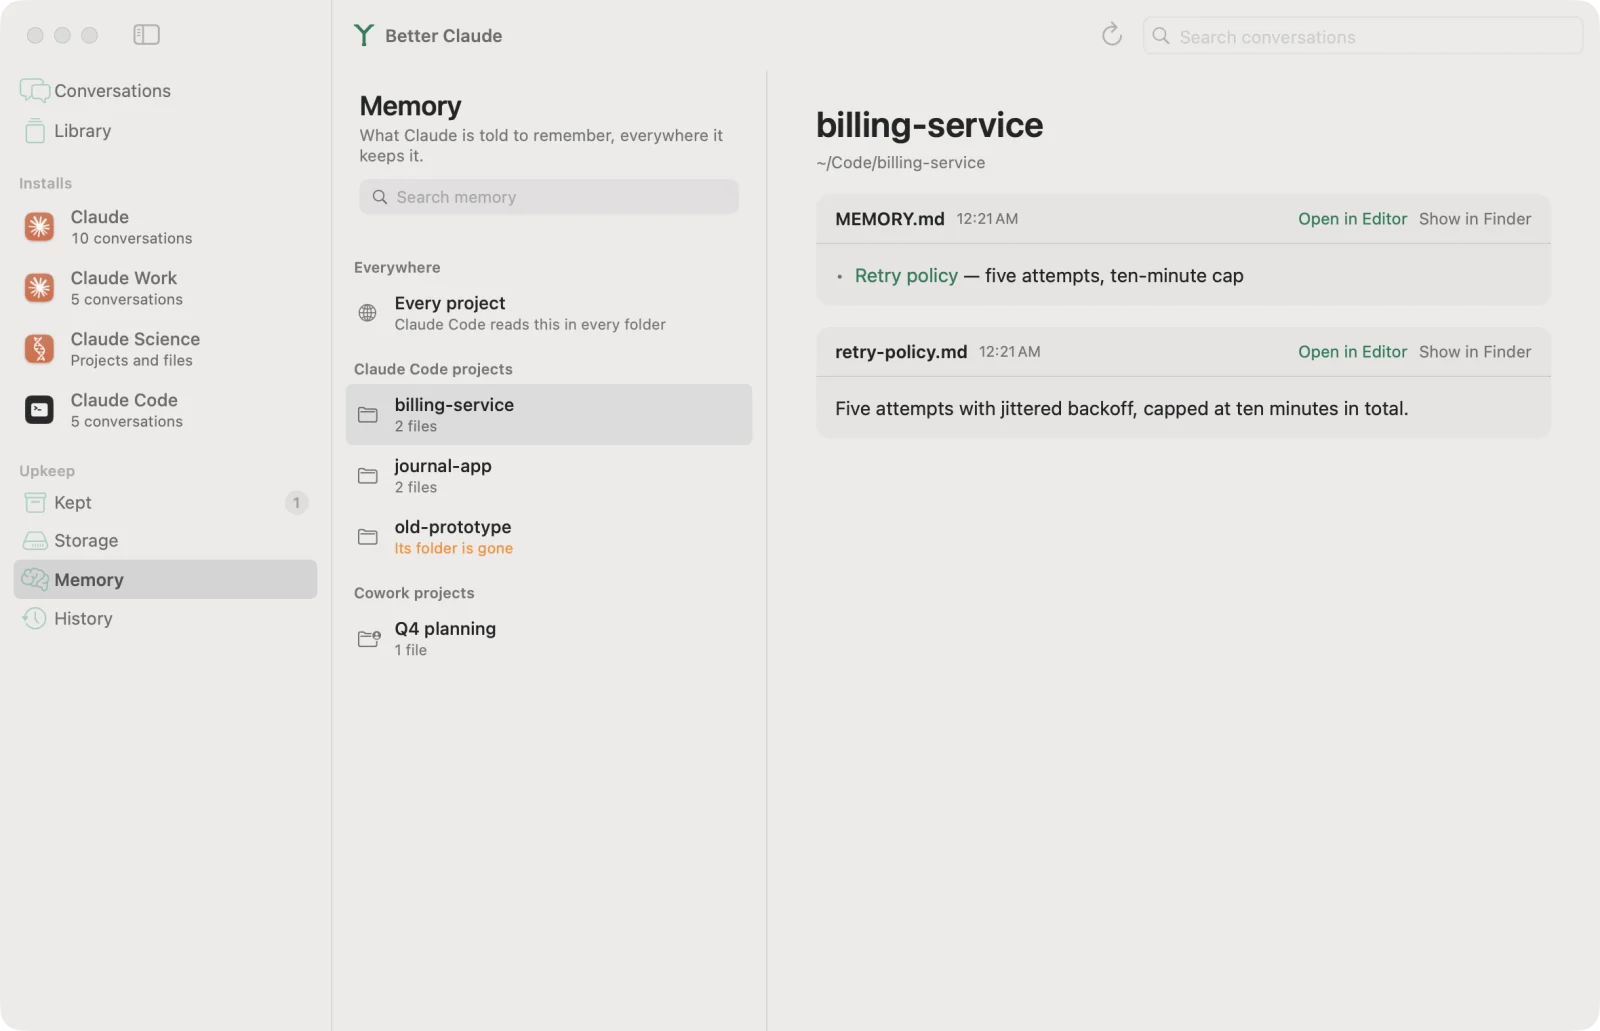
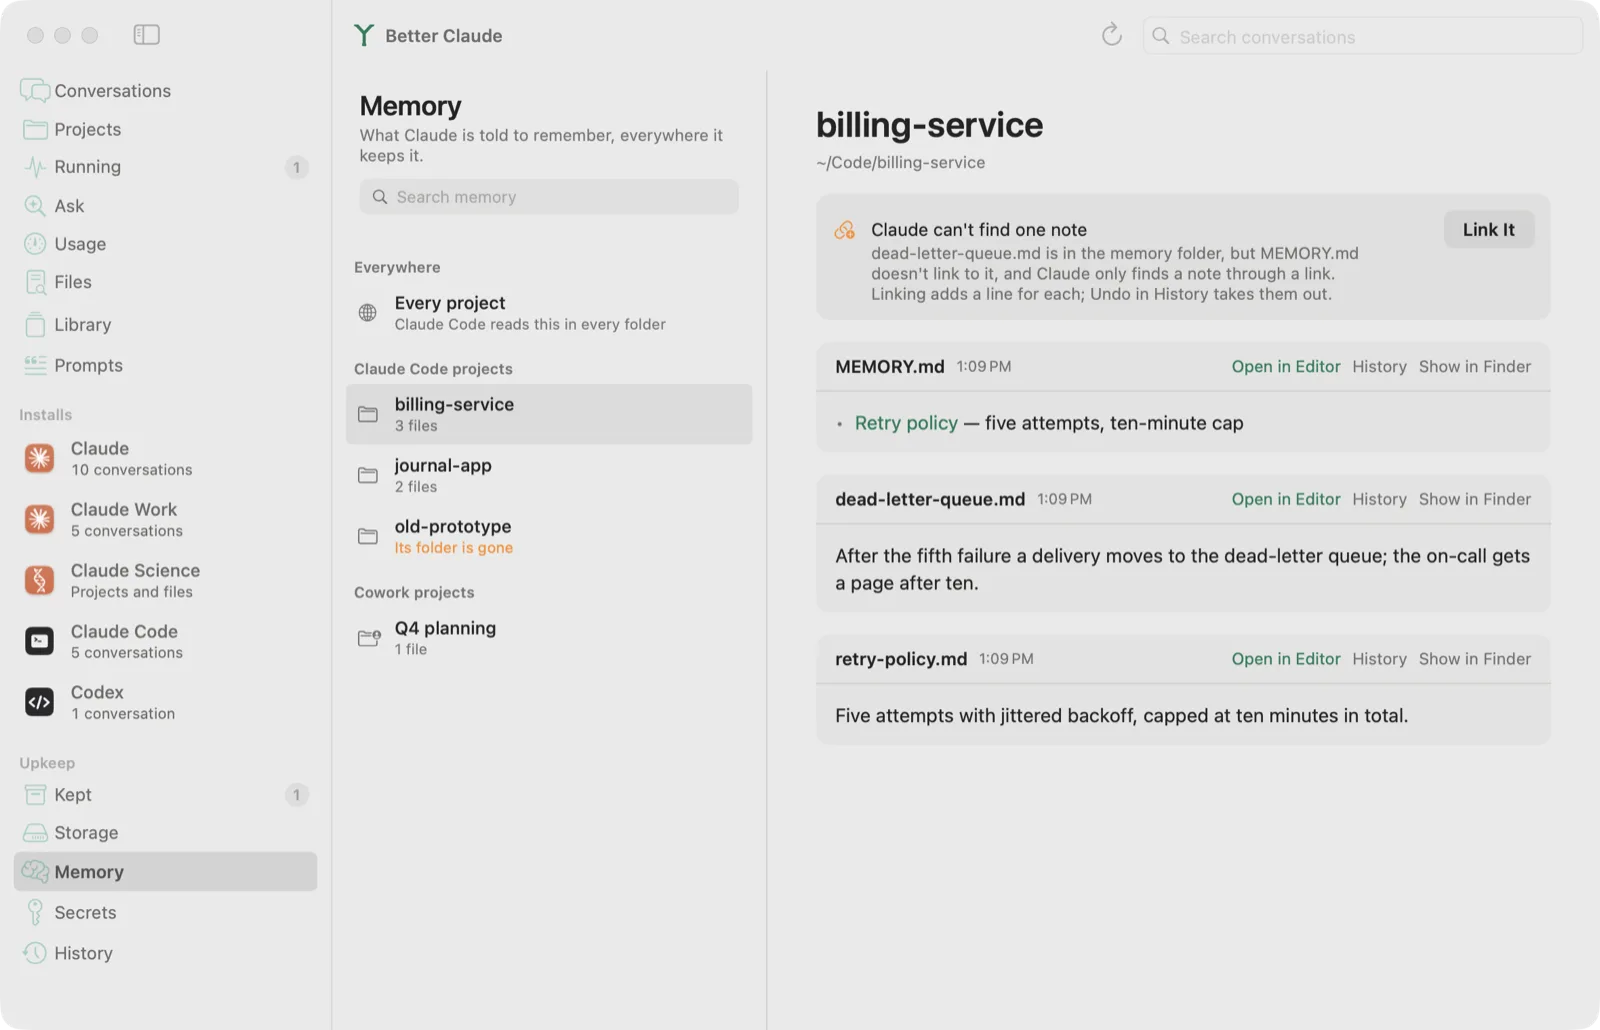
Better Claude 0.25.0: the memory Claude never sees

diff --git a/Sources/CoworkKit/Memory/MemoryHealth.swift b/Sources/CoworkKit/Memory/MemoryHealth.swift
@@ -1,0 +1,81 @@
+import Foundation
+
+/// What Claude Code's automatic memory for a project doesn't actually give Claude. Only the
+/// first 200 lines, or 25KB, of `MEMORY.md` are read at the start of a session, and a note is
+/// only found through a link from it.
+public struct MemoryHealth: Sendable, Equatable {
+    public static let lineLimit = 200
+    public static let byteLimit = 25 * 1_024
+
+    public let index: URL
+    /// Lines of `MEMORY.md` past the cut, which never load.
+    public let linesPastCut: Int
+    /// Notes in the folder that `MEMORY.md` doesn't link to.
+    public let unlinked: [URL]
+    /// Links in `MEMORY.md` to notes that aren't there.
+    public let missing: [String]
+
+    public var isHealthy: Bool { linesPastCut == 0 && unlinked.isEmpty && missing.isEmpty }
+
+    /// The health of a memory folder, or nil when it has no `MEMORY.md`.
+    public static func check(folder: URL) -> MemoryHealth? {
+        let index = folder.appendingPathComponent("MEMORY.md")
+        guard let data = try? Data(contentsOf: index), let text = String(data: data, encoding: .utf8) else { return nil }
+        var lines = text.components(separatedBy: "\n")
+        if lines.last == "" { lines.removeLast() }
+        // The cut is whichever comes first, 200 lines or 25KB.
+        var kept = 0, bytes = 0
+        for line in lines {
+            bytes += line.utf8.count + 1
+            guard kept < lineLimit, bytes <= byteLimit else { break }
+            kept += 1
+        }
+        let links = Set(linkTargets(in: text))
+        let notes = ((try? FileManager.default.contentsOfDirectory(atPath: folder.path)) ?? [])
+            .filter { $0.hasSuffix(".md") && $0 != "MEMORY.md" }.sorted()
+        return MemoryHealth(index: index, linesPastCut: lines.count - kept,
+                            unlinked: notes.filter { !links.contains($0) }.map { folder.appendingPathComponent($0) },
+                            missing: links.filter { !notes.contains($0) }.sorted())
+    }
+
+    static func linkTargets(in text: String) -> [String] {
+        let expression = try! NSRegularExpression(pattern: #"\]\(([^)#\s]+\.md)\)"#)
+        return expression.matches(in: text, range: NSRange(text.startIndex..., in: text)).compactMap {
+            Range($0.range(at: 1), in: text).map { String(text[$0]) }
+        }
+    }
+
+    /// A note's description, from its front matter, for its line in the index.
+    static func summary(of note: URL) -> String {
+        let text = (try? String(contentsOf: note, encoding: .utf8)) ?? ""
+        if let line = text.components(separatedBy: "\n").first(where: { $0.hasPrefix("description:") }) {
+            return line.dropFirst("description:".count).trimmingCharacters(in: CharacterSet.whitespaces.union(CharacterSet(charactersIn: "\"'")))
+        }
+        return ""
+    }
+
+    /// Adds a line for each note to `MEMORY.md`, near the top so it's inside the cut, with a
+    /// receipt: Undo in History puts the index back as it was.
+    @discardableResult
+    public func link(_ notes: [URL], paths: HostPaths = .current) throws -> ImportReceipt {
+        var receipt = ImportReceipt(direction: .fileRestore, destination: index.path)
+        receipt.title = "Linked \(notes.count) note\(notes.count == 1 ? "" : "s") from MEMORY.md"
+        receipt.itemCount = notes.count
+        let saved = try FileProvenance.saveCurrent(index, paths: paths)
+        receipt.modified.append(.init(path: index.path, backupPath: saved.path, sha256Before: try FileDigest.hex(contentsOf: index)))
+        try Undo.save(receipt)
+        var lines = try String(contentsOf: index, encoding: .utf8).components(separatedBy: "\n")
+        let entries = notes.map { note -> String in
+            let name = note.deletingPathExtension().lastPathComponent.replacingOccurrences(of: "-", with: " ")
+            let summary = Self.summary(of: note)
+            return "- [\(name.prefix(1).uppercased() + name.dropFirst())](\(note.lastPathComponent))" + (summary.isEmpty ? "" : " — \(summary)")
+        }
+        // After the last existing link, or at the top.
+        let at = (lines.lastIndex { $0.contains("](") && $0.contains(".md)") }).map { $0 + 1 } ?? 0
+        lines.insert(contentsOf: entries, at: min(at, lines.count))
+        try AtomicWrite.write(Data(lines.joined(separator: "\n").utf8), to: index)
+        receipt.completed = true
+        try Undo.save(receipt)
+        return receipt
+    }
+}

diff --git a/Sources/BetterClaude/Memory/MemoryPage.swift b/Sources/BetterClaude/Memory/MemoryPage.swift
@@ -158,6 +158,7 @@ private struct MemoryDetail: View {
                                           }
                                       }))
                     }
+                    MemoryHealthNotices(group: group)
                     ForEach(group.files) { file in
                         MemoryFileView(file: file)
                     }
@@ -234,5 +235,47 @@ private struct MemoryFileView: View {
               let end = text.range(of: "\n---\n", range: text.index(text.startIndex, offsetBy: 4)..<text.endIndex)
         else { return text }
         return String(text[end.upperBound...])
+    }
+}
+
+/// What the memory folder has that Claude doesn't get: lines past the cut, notes nothing
+/// links to, links to notes that are gone.
+private struct MemoryHealthNotices: View {
+    @Environment(AppServices.self) private var services
+    let group: MemoryGroup
+    @State private var health: MemoryHealth?
+
+    var body: some View {
+        VStack(alignment: .leading, spacing: Theme.Space.m) {
+            if let health {
+                if health.linesPastCut > 0 {
+                    InstallNotice(symbol: "scissors",
+                                  title: "\(health.linesPastCut) line\(health.linesPastCut == 1 ? "" : "s") of MEMORY.md never load",
+                                  detail: "Claude reads only the first \(MemoryHealth.lineLimit) lines, or 25KB, of MEMORY.md when a session starts. Move older entries into notes of their own and keep the index short.")
+                }
+                if !health.unlinked.isEmpty {
+                    InstallNotice(symbol: "link.badge.plus",
+                                  title: "Claude can't find \(health.unlinked.count == 1 ? "one note" : "\(health.unlinked.count) notes")",
+                                  detail: "\(health.unlinked.map(\.lastPathComponent).joined(separator: ", ")) \(health.unlinked.count == 1 ? "is" : "are") in the memory folder, but MEMORY.md doesn't link to \(health.unlinked.count == 1 ? "it" : "them"), and Claude only finds a note through a link. Linking adds a line for each; Undo in History takes them out.",
+                                  action: (health.unlinked.count == 1 ? "Link It" : "Link Them", { link(health) }))
+                }
+                if !health.missing.isEmpty {
+                    InstallNotice(symbol: "link.badge.exclamationmark",
+                                  title: "MEMORY.md links to \(health.missing.count == 1 ? "a note" : "\(health.missing.count) notes") that \(health.missing.count == 1 ? "is" : "are") gone",
+                                  detail: health.missing.joined(separator: ", "))
+                }
+            }
+        }
+        .task(id: group.id) { health = folder.flatMap(MemoryHealth.check) }
+    }
+
+    private var folder: URL? {
+        group.files.first { $0.name == "MEMORY.md" }?.url.deletingLastPathComponent()
+    }
+
+    private func link(_ health: MemoryHealth) {
+        guard (try? health.link(health.unlinked)) != nil else { return }
+        self.health = folder.flatMap(MemoryHealth.check)
+        services.memory.load(services.snapshot)
     }
 }

diff --git a/Tests/CoworkKitTests/MemoryHealthTests.swift b/Tests/CoworkKitTests/MemoryHealthTests.swift
@@ -1,0 +1,38 @@
+import CoworkFixtures
+import Foundation
+import Testing
+
+@testable import CoworkKit
+
+@Suite("Memory health")
+struct MemoryHealthTests {
+    @Test("Lines past the cut, notes nothing links to, and links to notes that are gone; linking is undoable")
+    func health() throws {
+        try FixtureHomeTests.withSample { sample in
+            let folder = sample.root.appendingPathComponent("memory", isDirectory: true)
+            try FileManager.default.createDirectory(at: folder, withIntermediateDirectories: true)
+            var index = ["- [Stack](stack.md) — what the app is built on", "- [Old decision](gone.md) — removed since"]
+            index += (1...208).map { "- entry \($0)" }
+            try Data(index.joined(separator: "\n").utf8).write(to: folder.appendingPathComponent("MEMORY.md"))
+            try Data("---\nname: stack\ndescription: what the app is built on\n---\nSwiftUI.".utf8).write(to: folder.appendingPathComponent("stack.md"))
+            try Data("---\nname: release-flow\ndescription: how a release goes out\n---\nTag, then publish.".utf8)
+                .write(to: folder.appendingPathComponent("release-flow.md"))
+
+            let health = try #require(MemoryHealth.check(folder: folder))
+            #expect(health.linesPastCut == 10)
+            #expect(health.unlinked.map(\.lastPathComponent) == ["release-flow.md"])
+            #expect(health.missing == ["gone.md"])
+
+            let before = try Data(contentsOf: folder.appendingPathComponent("MEMORY.md"))
+            let receipt = try health.link(health.unlinked, paths: sample.paths)
+            let after = try #require(MemoryHealth.check(folder: folder))
+            #expect(after.unlinked.isEmpty)
+            let text = try String(contentsOf: folder.appendingPathComponent("MEMORY.md"), encoding: .utf8)
+            // Near the top, inside the cut.
+            #expect(text.components(separatedBy: "\n")[2] == "- [Release flow](release-flow.md) — how a release goes out")
+
+            _ = try Undo.revert(receipt)
+            #expect(try Data(contentsOf: folder.appendingPathComponent("MEMORY.md")) == before)
+        }
+    }
+}

diff --git a/Sources/CoworkFixtures/Script.swift b/Sources/CoworkFixtures/Script.swift
@@ -247,6 +247,8 @@ enum Script {
         ("Code/billing-service", [
             ("MEMORY.md", "- [Retry policy](retry-policy.md) — five attempts, ten-minute cap\n"),
             ("retry-policy.md", "---\nname: retry-policy\ndescription: How webhook retries work\n---\n\nFive attempts with jittered backoff, capped at ten minutes in total.\n"),
+            // Saved, but never linked from MEMORY.md, so Claude can't find it.
+            ("dead-letter-queue.md", "---\nname: dead-letter-queue\ndescription: Where failed deliveries go and who is paged\n---\n\nAfter the fifth failure a delivery moves to the dead-letter queue; the on-call gets a page after ten.\n"),
         ]),
         ("Code/journal-app", [
             ("MEMORY.md", "- Uses SwiftData; never add Core Data.\n- Screenshots go in docs/shots.\n"),

diff --git a/Sources/BetterClaude/App/WhatsNew.swift b/Sources/BetterClaude/App/WhatsNew.swift
@@ -12,6 +12,10 @@ enum ReleaseHighlights {
     }
 
     static let byVersion: [String: [Item]] = [
+        "0.25.0": [
+            Item(symbol: "brain", title: "Memory Claude never sees",
+                 detail: "The Memory page says when a MEMORY.md runs past the 200 lines Claude reads, when notes aren't linked from it so Claude can't find them, and when it links to notes that are gone. Link the missing ones in one step."),
+        ],
         "0.24.1": [
             Item(symbol: "checkmark.seal", title: "Claims, checked, without the false alarms",
                  detail: "A claim is weighed against everything done before it, a script that might have done it counts as \u{201C}couldn't check\u{201D} rather than a miss, and Codex conversations aren't judged by Claude Code's tools."),

diff --git a/Tests/CoworkKitTests/MemoryTests.swift b/Tests/CoworkKitTests/MemoryTests.swift
@@ -14,7 +14,7 @@ struct MemoryTests {
             #expect(groups.contains { $0.kind == .everywhere && $0.files.map(\.name) == ["CLAUDE.md"] })
 
             let billing = try #require(groups.first { $0.title == "billing-service" })
-            #expect(Set(billing.files.map(\.name)) == ["MEMORY.md", "retry-policy.md"])
+            #expect(Set(billing.files.map(\.name)) == ["MEMORY.md", "retry-policy.md", "dead-letter-queue.md"])
             #expect(!billing.isOrphaned)
 
             let journal = try #require(groups.first { $0.title == "journal-app" })

diff --git a/Sources/CoworkKit/Update/AppVersion.swift b/Sources/CoworkKit/Update/AppVersion.swift
@@ -1,5 +1,5 @@
 /// The version of Better Claude, in one place. The app bundle, the release archives and the
 /// update check all take it from here.
 public enum AppVersion {
-    public static let current = "0.24.1"
+    public static let current = "0.25.0"
 }

diff --git a/README.md b/README.md
@@ -255,6 +255,9 @@ same list.
   offered, and everything can be put back.
 - **Memory** shows what Claude is told to remember — global and project `CLAUDE.md` files,
   Claude Code project memory, Cowork project memory — and flags memory whose folder is gone.
+  It also says what Claude never sees: lines of a `MEMORY.md` past the 200 lines (or 25KB)
+  read at the start of a session, notes the index doesn't link to, and links to notes that
+  are gone. Unlinked notes can be linked in one step, undoable from History.
 
 
 ## Works best with Parallex
